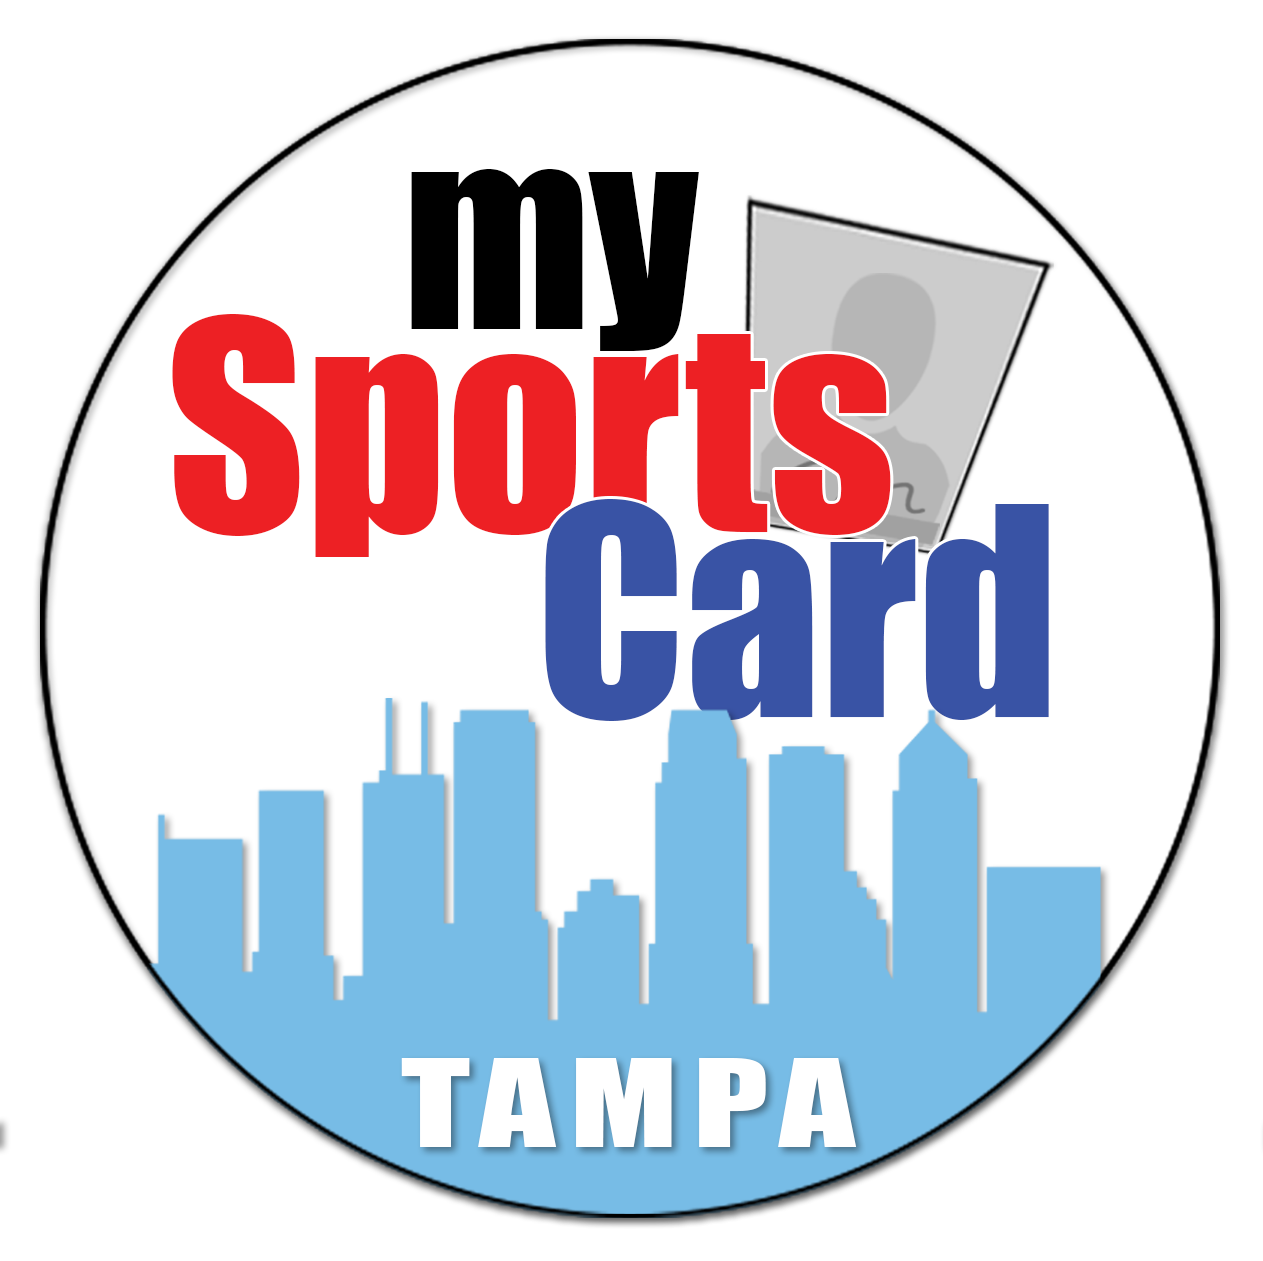
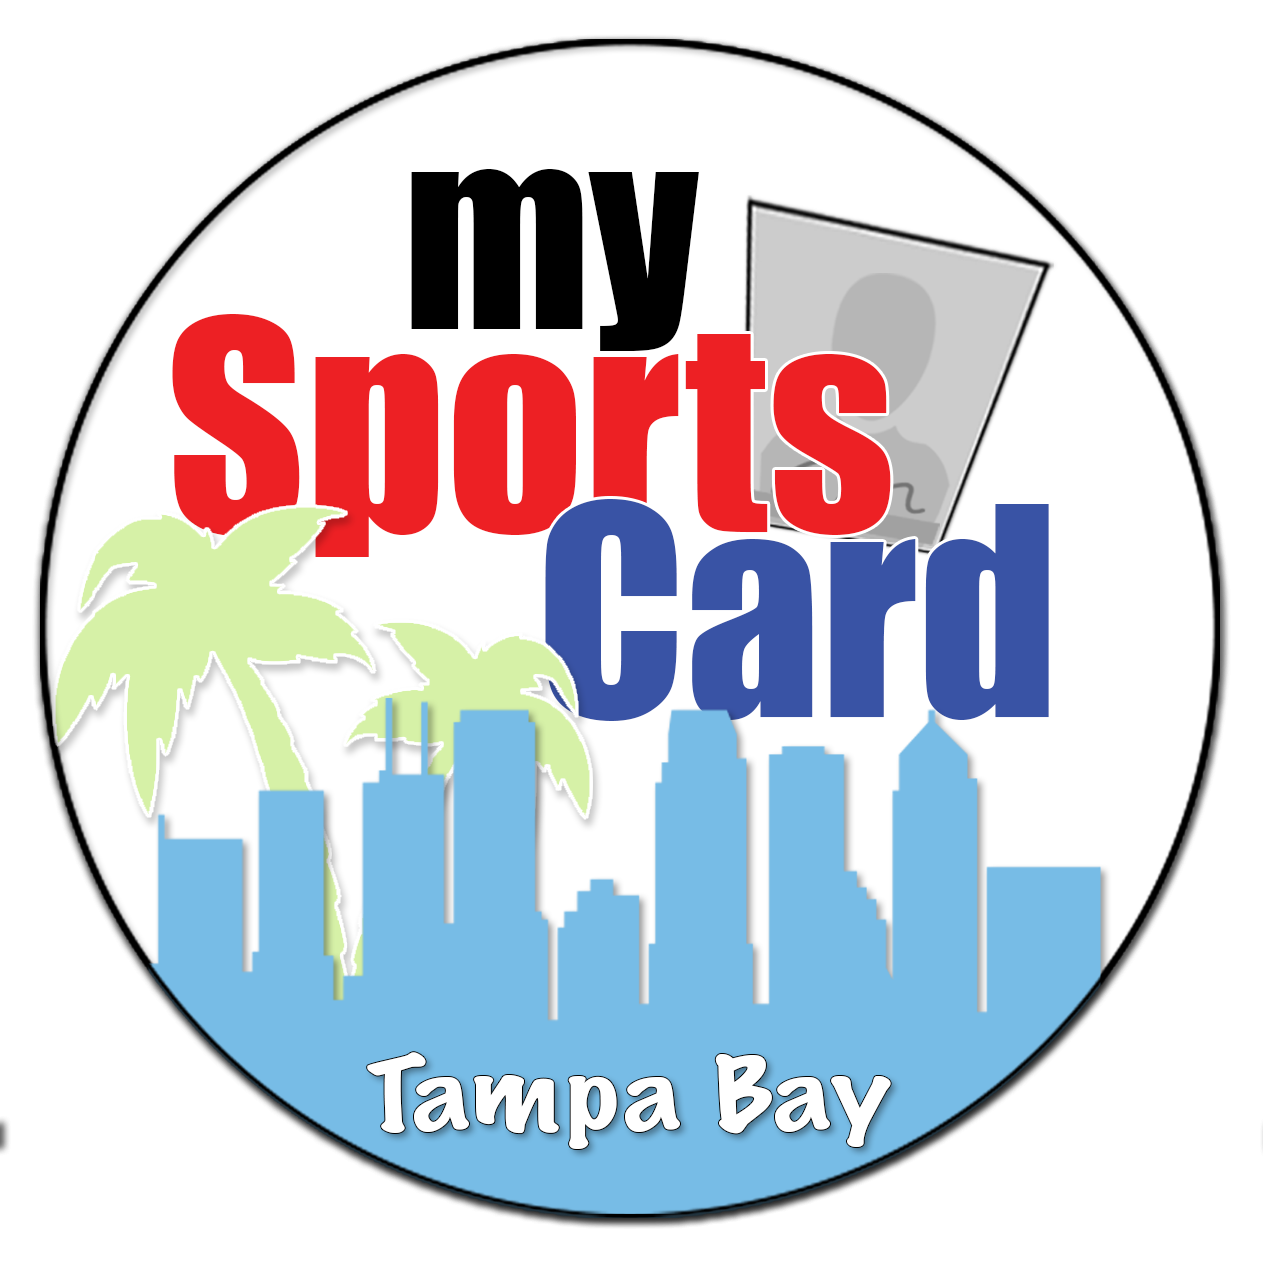
adding graphics for bolts and bucs

diff --git a/app/controllers/cards_controller.rb b/app/controllers/cards_controller.rb
@@ -1,6 +1,6 @@
 class CardsController < ApplicationController
 
-  def index
+  def index3
   end
 
   def show
